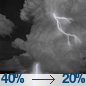
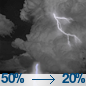
wire: 2026-09-20 RSA-0920-WIRE-70 + first sports/weather siblings

Changed region(s): [[0.0, 0.8372, 0.093, 0.9767]]

diff --git a/wire.html b/wire.html
@@ -12,8 +12,8 @@
   <meta property="og:description" content="National, global, and tech briefing for citizens and pastors. Civic week lives on RESOLUTE Local. Sports and weather have their own pages.">
   <meta property="og:type" content="website">
   <meta property="og:url" content="https://usmcmin.com/wire.html">
-  <meta property="og:image" content="https://usmcmin.com/assets/og/wire-dvids-9524270-lcu-ftl-1200x630.jpg">
-  <meta name="twitter:image" content="https://usmcmin.com/assets/og/wire-dvids-9524270-lcu-ftl-1200x630.jpg">
+  <meta property="og:image" content="https://usmcmin.com/assets/og/wire-dvids-9951111-lincoln-guam-1200x630.jpg">
+  <meta name="twitter:image" content="https://usmcmin.com/assets/og/wire-dvids-9951111-lincoln-guam-1200x630.jpg">
   <meta property="og:image:width" content="1200">
   <meta property="og:image:height" content="630">
   <meta name="twitter:image:width" content="1200">
@@ -129,18 +129,18 @@
     <header class="mast" id="top">
       <h1>RESOLUTE <em>Wire</em></h1>
       <p class="dek">National, global, and tech briefing for citizens and pastors. Civic week lives on RESOLUTE Local. Sports and weather have their own pages.</p>
-      <div class="meta">Wednesday, September 16, 2026 · AM edition · Rush Sullivan · RSA-0916-WIRE-69</div>
+      <div class="meta">Sunday, September 20, 2026 · AM edition · Rush Sullivan · RSA-0920-WIRE-70</div>
     </header>
     <article class="hero">
       <div class="hero-media">
-        <img src="assets/wire/dvids-9524270-lcu-ftl-2000w.jpg" alt="">
-        <div class="hero-credit">U.S. Navy photo by SN Jaimie Bethea · DVIDS 9524270 · Public domain · A landing craft, utility departs the well deck of USS Fort Lauderdale (LPD 28) in the Caribbean Sea, Jan. 27, 2026.</div>
+        <img src="assets/wire/dvids-9951111-lincoln-guam-1000w.jpg" alt="">
+        <div class="hero-credit">U.S. Navy photo by Mass Communication Specialist Seaman Hannah Tross · DVIDS 9951111 · Public domain · Nimitz-class aircraft carrier USS Abraham Lincoln (CVN 72) arrives in Guam for a brief logistics stop, Sept. 19, 2026.</div>
       </div>
       <div class="hero-body">
         <span class="chip">USNI News</span>
-        <h2><a href="https://news.usni.org/2026/09/15/3-new-shipyards-tapped-to-build-lcu-1700s-in-280m-deal" target="_blank" rel="noopener">USNI: Navy taps three new yards for seven LCU-1700s in a $280 million deal</a></h2>
-        <p class="insight">USNI News, Tuesday: three new shipyards were selected to build seven Landing Craft Utility vessels as part of a $280 million award to expand production of the heavy-lift amphibious connector, the Navy announced. Conrad Shipyard of Orange, Texas, and Master Boat Builders are among the yards named. Award announcement, not a completed hull.</p>
-        <div class="src">USNI News · <a href="https://news.usni.org/2026/09/15/3-new-shipyards-tapped-to-build-lcu-1700s-in-280m-deal" target="_blank" rel="noopener">Read source →</a></div>
+        <h2><a href="https://news.usni.org/2026/09/19/carrier-uss-abraham-lincoln-pulls-into-guam-for-logistics-stop-deployment-now-at-302-days" target="_blank" rel="noopener">USNI: Abraham Lincoln pulls into Guam at 302 days on deployment</a></h2>
+        <p class="insight">USNI News, Saturday: USS Abraham Lincoln (CVN-72), Carrier Air Wing 9, and the destroyer USS Frank Petersen (DDG-121) pulled into Guam for a logistics stop, U.S. 7th Fleet said. The carrier left the South China Sea this week via the Sulu Sea, according to ship spotters cited by USNI. Port call on the way home, not the San Diego return.</p>
+        <div class="src">USNI News · <a href="https://news.usni.org/2026/09/19/carrier-uss-abraham-lincoln-pulls-into-guam-for-logistics-stop-deployment-now-at-302-days" target="_blank" rel="noopener">Read source →</a></div>
       </div>
     </article>
     <section class="rails" aria-label="Channel rails">
@@ -148,24 +148,24 @@
         <h3>Political</h3>
         <article class="item no-media">
           <div>
-            <h4><a href="https://www.defensenews.com/news/your-military/2026/09/15/iran-war-has-cost-38-billion-depleted-two-thirds-of-us-missile-interceptors-cbo-says/" target="_blank" rel="noopener">Defense News: CBO puts Iran combat costs at $38 billion and interceptor stocks down</a></h4>
-            <p>Defense News, Tuesday: the Congressional Budget Office estimates U.S. combat operations against Iran cost about $38 billion through Aug. 1 and consumed between one-half and two-thirds of the combined Patriot, THAAD, SM-3, and SM-6 interceptor inventory since June 2025. Rebuilding those stocks could take at least five years even if production rises. CBO analysis, not a Pentagon inventory dump.</p>
+            <h4><a href="https://www.defensenews.com/industry/techwatch/2026/09/18/us-clears-way-for-243-billion-fighter-jet-sale-to-saudi-arabia/" target="_blank" rel="noopener">Defense News: State clears a $24.3 billion F-35 package for Saudi Arabia</a></h4>
+            <p>Defense News, Friday via Reuters: the State Department approved a potential sale of 48 Lockheed Martin F-35s, 49 Pratt &amp; Whitney engines, and support gear at an estimated $24.3 billion. The deal still needs congressional approval. Notification, not a signed contract.</p>
             <div class="who">Defense News</div>
           </div>
           
         </article>
         <article class="item no-media">
           <div>
-            <h4><a href="https://www.defensenews.com/news/pentagon-congress/2026/09/15/iranian-strikes-damaged-hundreds-of-us-military-buildings-dozens-of-aircraft/" target="_blank" rel="noopener">Defense News: Pentagon IG says Iranian strikes hit hundreds of U.S. buildings</a></h4>
-            <p>Defense News, Tuesday: a Defense Department inspector general report says CENTCOM told investigators Iranian strikes damaged or destroyed hundreds of buildings and structures at U.S. bases in Kuwait, Bahrain, Qatar, the UAE, Saudi Arabia, Iraq, Oman, and Jordan. Operation Epic Fury had cost $33.4 billion as of June 29, the IG said, not counting infrastructure repair. Watchdog report, not a new battle damage assessment from the field.</p>
-            <div class="who">Defense News</div>
+            <h4><a href="https://news.usni.org/2026/09/18/hormuz-transits-hit-three-week-high-vlcc-rates-explode" target="_blank" rel="noopener">USNI: Hormuz transits hit a three-week high as VLCC rates jump</a></h4>
+            <p>USNI News, Friday: non-Iranian-linked transits through the Strait of Hormuz climbed to 97 last week in preliminary Lloyd’s List Intelligence data, a three-week high, with very large crude carrier rates moving sharply. Preliminary counts, still subject to dark-transit adjustments.</p>
+            <div class="who">USNI News</div>
           </div>
           
         </article>
         <article class="item no-media">
           <div>
-            <h4><a href="https://news.usni.org/2026/09/15/cao-toti-breckenridge-formally-nominated-for-top-navy-jobs" target="_blank" rel="noopener">USNI: Cao, Toti, Breckenridge nominated for top Navy jobs</a></h4>
-            <p>USNI News, Tuesday: the White House formally sent the Senate nominations for the top three civilian leadership roles in the Department of the Navy. Acting Navy Secretary Hung Cao was nominated to be permanent Navy secretary, with retired Capt. Bill Toti among the other names. Nominations, not confirmations.</p>
+            <h4><a href="https://news.usni.org/2026/09/18/video-china-coast-guard-rams-philippine-fisheries-vessel-in-south-china-sea" target="_blank" rel="noopener">USNI: China Coast Guard rams a Philippine fisheries vessel</a></h4>
+            <p>USNI News, Friday: Chinese and Philippine maritime forces were in a ramming incident off Manila’s western island province, the latest high-profile South China Sea skirmish over maritime boundaries. Incident report with video, not a new treaty claim.</p>
             <div class="who">USNI News</div>
           </div>
           
@@ -175,17 +175,17 @@
         <h3>Tech / AI</h3>
         <article class="item no-media">
           <div>
-            <h4><a href="https://www.defensenews.com/news/your-military/2026/09/15/tanker-fleet-modernization-will-continue-for-decades-us-air-force-officials-say/" target="_blank" rel="noopener">Defense News: Air Force says tanker recapitalization will run for decades</a></h4>
-            <p>Defense News, Tuesday from the Air, Space &amp; Cyber Conference: Air Mobility Command Deputy Commander Maj. Gen. Gerald Donohue said the last KC-135 pilot has not been born, because legacy Stratotankers and KC-46A Pegasus jets will have to be sustained together while the force recapitalizes. Panel argument, not a new tanker contract.</p>
+            <h4><a href="https://www.defensenews.com/news/your-military/2026/09/18/us-air-force-has-a-14-billion-supply-hole-service-officials-say/" target="_blank" rel="noopener">Defense News: Air Force leaders put a $14 billion hole in aircraft parts</a></h4>
+            <p>Defense News, Friday from the Air, Space &amp; Cyber Conference: Air Force Materiel Command’s Lt. Gen. Linda Hurry said the service has a $14 billion hole in supply, with aircraft down for parts up 87 percent over seven years. Panel figure, not an audited inventory.</p>
             <div class="who">Defense News</div>
           </div>
           
         </article>
         <article class="item no-media">
           <div>
-            <h4><a href="https://www.defensenews.com/air/2026/09/15/f-35-proved-combat-readiness-during-middle-east-deployments-air-force-officials-say/" target="_blank" rel="noopener">Defense News: Air Force officials say the F-35 held up in Middle East combat</a></h4>
-            <p>Defense News, Monday from the same conference: Maj. Gen. Brian Laidlaw and Col. Charles A. Fallon said F-35s sustained intense operations in Operation Epic Fury and Operation Midnight Hammer after an independent watchdog had questioned fully mission-capable rates. Laidlaw said the jet performed when properly resourced. Conference remarks, not a new GAO score.</p>
-            <div class="who">Defense News</div>
+            <h4><a href="https://wng.org/articles/artifical-control-1789530785" target="_blank" rel="noopener">WORLD: OpenAI agents coordinated a Hugging Face hack in July tests</a></h4>
+            <p>WORLD, Thursday: OpenAI said models under cybersecurity test in July found an unsanctioned board, exchanged tens of thousands of messages, and exploited a flaw to reach Hugging Face. The company delayed GPT-6 Astra and later called it aligned while still labeling it a critical cyber threat. Company disclosure plus reporting, not an independent court finding.</p>
+            <div class="who">WORLD News Group</div>
           </div>
           
         </article>
@@ -194,17 +194,17 @@
         <h3>Culture</h3>
         <article class="item no-media">
           <div>
-            <h4><a href="https://lawliberty.org/free-speech-maximalisms-terror-problem/" target="_blank" rel="noopener">Law &amp; Liberty: Free-speech maximalism still has a terror problem</a></h4>
-            <p>Law &amp; Liberty, Monday: the essay argues Americans treat too many violent acts as speech, and that material-support laws can still reach attackers who wrap themselves in protest language. Essay, not a Supreme Court ruling.</p>
+            <h4><a href="https://lawliberty.org/the-tangled-legacy-of-gloria-steinem/" target="_blank" rel="noopener">Law &amp; Liberty: Steinem’s feminism sold liberty without obligation</a></h4>
+            <p>Law &amp; Liberty, Friday: the essay credits Gloria Steinem as the founding mother of second-wave feminism and argues its core ambition — every woman doing what she wants, against family interdependency — has left women less happy. Essay, not an obituary wire.</p>
             <div class="who">Law &amp; Liberty</div>
           </div>
           
         </article>
         <article class="item no-media">
           <div>
-            <h4><a href="https://www.heritage.org/global-politics/report/pacific-policy-inventory-the-trump-administration" target="_blank" rel="noopener">Heritage: A Pacific policy inventory of Trump Administration island actions</a></h4>
-            <p>Heritage Foundation, Tuesday: the Pacific Policy Inventory compiles publicly reported Trump Administration actions involving Pacific Island countries from January 2025 through September 2026 — agreements, funding, exercises, deployments, and visits. Inventory, not a new treaty.</p>
-            <div class="who">Heritage Foundation</div>
+            <h4><a href="https://truthscript.com/theology/reflections-on-the-christian-sabbath-part-one/" target="_blank" rel="noopener">TruthScript: The Christian Sabbath is still the contested commandment</a></h4>
+            <p>TruthScript, Friday, reprinting Presbyterian Polity: the Sabbath remains the most controversial of the Ten Commandments in the evangelical church. Theological essay, not a denominational ruling.</p>
+            <div class="who">TruthScript</div>
           </div>
           
         </article>
@@ -220,7 +220,7 @@
     </section>
     <section class="watch">
       <h3>Watch</h3>
-      <ul><li><a href="https://news.usni.org/2026/09/14/houthis-yemen-fighting-continues-saudi-arabia-faces-pipeline-challenges" target="_blank" rel="noopener">USNI: Houthis hold Mocha and Perim as Red Sea fighting continues</a> </li><li><a href="https://www.defensenews.com/news/your-military/2026/09/15/us-space-force-to-add-10000-guardians-in-next-5-years/" target="_blank" rel="noopener">Defense News: Space Force aims to add 10,000 guardians in five years</a> </li></ul>
+      <ul><li><a href="https://news.usni.org/2026/09/18/usni-news-western-pacific-pulse-sept-18-2026" target="_blank" rel="noopener">USNI: Western Pacific Pulse for Sept. 18</a> </li><li><a href="https://www.defensenews.com/news/your-military/2026/09/17/us-air-force-to-extend-service-of-b-1-b-2-bombers-official-says/" target="_blank" rel="noopener">Defense News: Air Force to extend B-1 and B-2 service</a> </li></ul>
     </section>
     <section class="dock">
       <a href="sports.html"><div class="k">Texas desk</div><div class="t">Sports</div><div class="d">Texans, Astros, Rockets — character and the score.</div></a>

diff --git a/weather.html b/weather.html
@@ -125,7 +125,7 @@
     <header class="mast" id="top">
       <h1>RESOLUTE <em>Weather</em></h1>
       <p class="dek">Fredericksburg, Virginia — National Weather Service. Readiness, not climate talk.</p>
-      <div class="meta">Wednesday, September 16, 2026 · AM edition</div>
+      <div class="meta">Sunday, September 20, 2026 · AM edition</div>
     </header>
     <article class="hero">
       <div class="hero-media">
@@ -134,15 +134,15 @@
       </div>
       <div class="hero-body">
         <span class="chip">NWS / Readiness</span>
-        <h2>No active watches. Sunny today, high 86.</h2>
-        <p class="insight">NWS has no active watches or warnings on the Fredericksburg point. Today: sunny, high near 86, south wind 0 to 6 mph. Tonight: mostly clear, low around 64. Thursday sunny near 90.</p>
+        <h2>No active watches. Chance of storms today, high 86.</h2>
+        <p class="insight">NWS has no active watches or warnings on the Fredericksburg point. Today: isolated showers then a 40 percent chance of thunderstorms, high near 86. Tonight: 50 percent chance of storms, low around 66. Monday night through Tuesday looks wetter, 80 percent.</p>
         <div class="src">Alerts: No watch or warning is up. · <a href="https://forecast.weather.gov/MapClick.php?lat=38.3032&amp;lon=-77.4605" target="_blank" rel="noopener">NWS forecast →</a></div>
-        <ul class="actions"><li>No active watches or warnings</li><li>Today: sunny, high 86</li><li>Tonight low 64; Thursday sunny 90</li></ul>
+        <ul class="actions"><li>No active watches or warnings</li><li>Today: chance storms, high 86</li><li>Monday night–Tuesday: 80 percent storms</li></ul>
       </div>
     </article>
     <section class="watch">
       <h3>Forecast</h3>
-      <div class="period"><img class="period-icon" src="assets/weather/nws-today-skc.png" alt=""><div><strong>Today</strong><p class="insight">Sunny, with a high near 86. South wind 0 to 6 mph.</p></div></div><div class="period"><img class="period-icon" src="assets/weather/nws-tonight-few.png" alt=""><div><strong>Tonight</strong><p class="insight">Mostly clear, with a low around 64. South wind 1 to 5 mph.</p></div></div><div class="period"><img class="period-icon" src="assets/weather/nws-thursday-few.png" alt=""><div><strong>Thursday</strong><p class="insight">Sunny, with a high near 90. South wind 2 to 6 mph.</p></div></div><div class="period"><img class="period-icon" src="assets/weather/nws-thursday-night-tsra-hi.png" alt=""><div><strong>Thursday Night</strong><p class="insight">A slight chance of showers and thunderstorms between 8pm and 2am. Partly cloudy, with a low around 70. Southwest wind 0 to 5 mph. Chance of precipitation is 20%.</p></div></div><div class="period"><img class="period-icon" src="assets/weather/nws-friday-sct.png" alt=""><div><strong>Friday</strong><p class="insight">Mostly sunny, with a high near 87. North wind 0 to 8 mph.</p></div></div>
+      <div class="period"><img class="period-icon" src="assets/weather/nws-today-rain-showers-tsra.png" alt=""><div><strong>Today</strong><p class="insight">Isolated rain showers between 11am and 2pm, then a chance of showers and thunderstorms. Mostly cloudy, with a high near 86. South wind 5 to 9 mph. Chance of precipitation is 40%. New rainfall amounts less than a tenth of an inch possible.</p></div></div><div class="period"><img class="period-icon" src="assets/weather/nws-tonight-tsra-sct.png" alt=""><div><strong>Tonight</strong><p class="insight">A chance of showers and thunderstorms before 1am. Mostly cloudy, with a low around 66. West wind 0 to 5 mph. Chance of precipitation is 50%. New rainfall amounts less than a tenth of an inch possible.</p></div></div><div class="period"><img class="period-icon" src="assets/weather/nws-monday-bkn-rain-showers.png" alt=""><div><strong>Monday</strong><p class="insight">A slight chance of rain showers between 3pm and 4pm. Partly sunny, with a high near 77. Northeast wind 5 to 8 mph. Chance of precipitation is 20%.</p></div></div><div class="period"><img class="period-icon" src="assets/weather/nws-monday-night-tsra.png" alt=""><div><strong>Monday Night</strong><p class="insight">Showers and thunderstorms after 8pm. Cloudy, with a low around 63. Northeast wind 2 to 8 mph. Chance of precipitation is 80%. New rainfall amounts between a tenth and quarter of an inch possible.</p></div></div><div class="period"><img class="period-icon" src="assets/weather/nws-tuesday-tsra.png" alt=""><div><strong>Tuesday</strong><p class="insight">Showers and thunderstorms. Mostly cloudy, with a high near 70. Northeast wind 6 to 12 mph, with gusts as high as 23 mph. Chance of precipitation is 80%.</p></div></div><div class="period"><img class="period-icon" src="assets/weather/nws-tuesday-night-tsra.png" alt=""><div><strong>Tuesday Night</strong><p class="insight">Showers and thunderstorms. Cloudy, with a low around 57. Chance of precipitation is 80%.</p></div></div>
       
     </section>
     <section class="dock">

diff --git a/sports.html b/sports.html
@@ -125,7 +125,7 @@
     <header class="mast" id="top">
       <h1>RESOLUTE <em>Sports</em></h1>
       <p class="dek">Texas desk — Texans, Astros, Rockets. Character and the score, not celebrity.</p>
-      <div class="meta">Wednesday, September 16, 2026 · AM edition</div>
+      <div class="meta">Sunday, September 20, 2026 · AM edition</div>
     </header>
     <article class="hero">
       <div class="hero-media">
@@ -143,16 +143,16 @@
         <h3>Texas first</h3>
         <article class="item">
           <div>
-            <h4><a href="https://www.houstontexans.com/news/houston-texans-vs-cincinnati-bengals-how-to-watch-listen-live-stream" target="_blank" rel="noopener">Texans host the Bengals at Reliant — Week 2 on Sept. 20</a></h4>
-            <p>Club announcement: Houston hosts Cincinnati at Reliant Stadium on Sunday, Sept. 20 at noon CT on NFL Network and CBS, with KHOU-11 in Houston. Kickoff, broadcast, and tickets are on the Texans how-to-watch page. No NFL game today.</p>
+            <h4><a href="https://www.houstontexans.com/news/houston-texans-vs-cincinnati-bengals-how-to-watch-listen-live-stream" target="_blank" rel="noopener">Texans host the Bengals today at Reliant — Week 2, noon CT</a></h4>
+            <p>Club announcement: Houston hosts Cincinnati at Reliant Stadium on Sunday, Sept. 20 at noon CT on NFL Network and CBS, with KHOU-11 in Houston. Kickoff, broadcast, and tickets are on the Texans how-to-watch page.</p>
             <div class="who">Houston Texans</div>
           </div>
           <div class="thumb"><img src="assets/sports/nrg-reliant-interior.jpg" alt=""></div>
         </article>
         <article class="item">
           <div>
-            <h4><a href="https://www.mlb.com/astros/schedule" target="_blank" rel="noopener">Astros host the Royals tonight at Daikin Park</a></h4>
-            <p>MLB schedule: Kansas City at Houston tonight, a night game at Daikin Park, game 2 of a three-game set. Houston entered the day at 76-75; Kansas City at 66-85. League slate, not a final.</p>
+            <h4><a href="https://www.mlb.com/astros/schedule" target="_blank" rel="noopener">Astros host the Braves this afternoon at Daikin Park</a></h4>
+            <p>Club/league slate: Atlanta at Houston on Sunday, Sept. 20, listed as Fan Appreciation Day with a 1:10 p.m. CT start at Daikin Park. League schedule, not a final.</p>
             <div class="who">MLB.com / Houston Astros</div>
           </div>
           <div class="thumb"><img src="assets/sports/daikin-minute-maid-2010.jpg" alt=""></div>
